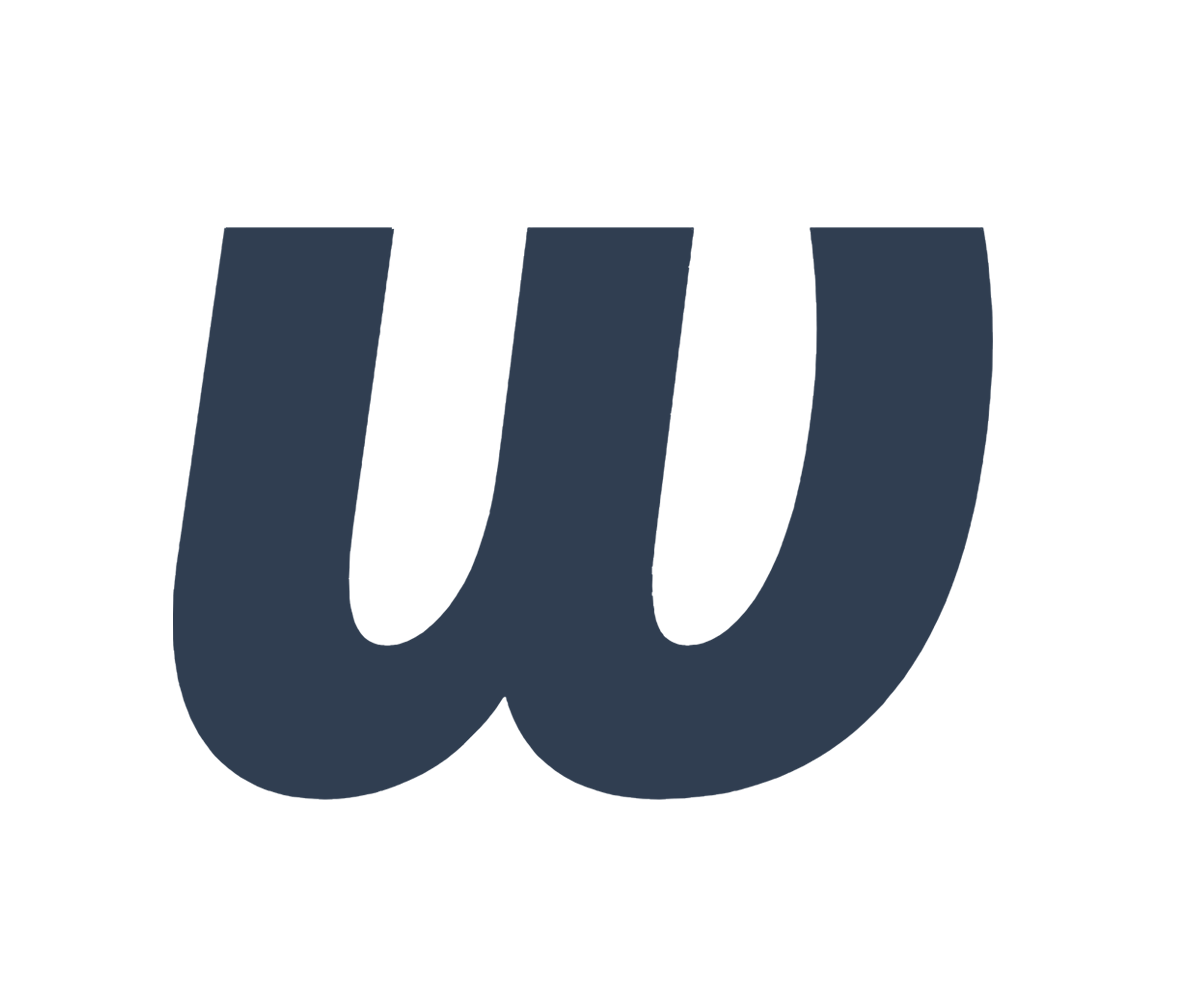
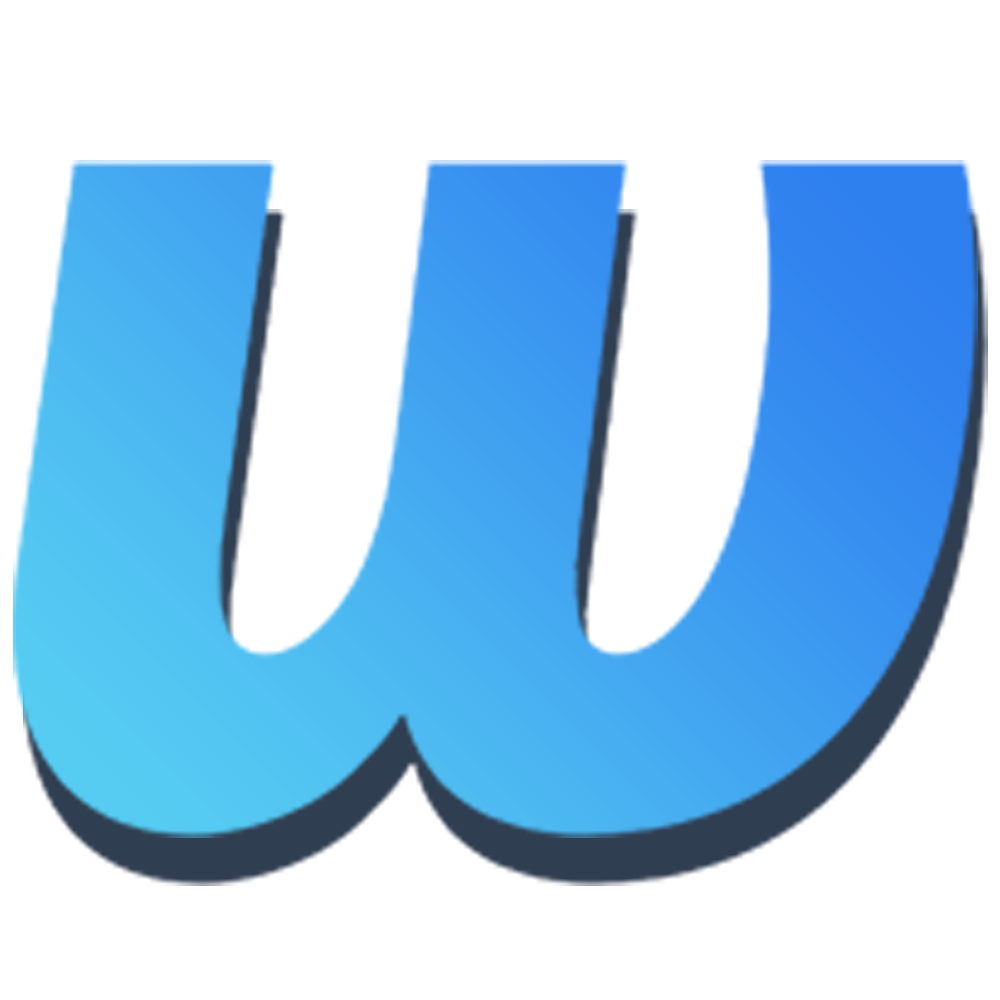
d

diff --git a/index.html b/index.html
@@ -19,6 +19,10 @@
 <!--[if lt IE 9]><script src="js/respond.js"></script><![endif]-->
 <script src="https://kit.fontawesome.com/47cfa1d6ce.js" crossorigin="anonymous"></script>
 <style>
+	html, body {
+    max-width: 100%;
+    overflow-x: hidden;
+}
 	#wp , #wp2{
 		position: relative;
 		right: 4px;
@@ -32,9 +36,11 @@
 		left: 4px;
 		top: 5px;
 	}
+
 </style>
 </head>
 <body class="hidden-bar-wrapper">
+	
 <div class="page-wrapper">
     <!-- Preloader -->
 	<div class="preloader">
@@ -65,7 +71,7 @@
         <div class="header-upper" style="display: none;">
         	<div class="auto-container clearfix">
 				<div class="pull-left logo-box">
-					<div class="logo"><a href="html/merix/merix/index.html"><img src="html/merix/merix/images/logo-2.png" alt="" title=""></a></div>
+					<div class="logo"><a href="html/merix/merix/index.html"><img src="Screen-Shot-2020-12-19-at-12.01.59-PM copy 2.png" alt="" title=""></a></div>
 				</div>
 				<div class="nav-outer clearfix">
 					<!--Mobile Navigation Toggler-->
@@ -277,7 +283,7 @@
             <div class="menu-backdrop"></div>
             <div class="close-btn"><span class="icon flaticon-multiply"></span></div>
             <nav class="menu-box">
-                <div class="nav-logo"><a href="html/merix/merix/index.html"><img src="html/merix/merix/images/logo-3.png" alt="" title=""></a></div>
+                <div class="nav-logo"><a href="html/merix/merix/index.html"><img src="Screen-Shot-2020-12-19-at-12.01.59-PM copy 2.png" alt="" title=""></a></div>
                 <div class="menu-outer"><!--Here Menu Will Come Automatically Via Javascript / Same Menu as in Header--></div>
             </nav>
         </div><!-- End Mobile Menu -->
@@ -298,7 +304,7 @@
 					<div class="sidebar-info-contents">
 						<div class="content-inner">
 							<div class="logo">
-								<a href="html/merix/merix/index.html"><img src="html/merix/merix/images/logo.png" alt="" /></a>
+								<a href="html/merix/merix/index.html"><img src="Screen-Shot-2020-12-19-at-12.01.59-PM copy 2.png" alt="" /></a>
 							</div>
 							<div class="content-box">
 								<h2>About Us</h2>
@@ -1224,32 +1230,32 @@
             <div class="contact-form">
 
                 <!--Contact Form-->
-                <form method="post" action="sendemail.php" id="contact-form">
+                <form autocomplete="off" method="post" target="hidden_iframe" name="google-sheet">
                     <div class="row clearfix">
 
                         <div class="col-lg-6 col-md-6 col-sm-12 form-group">
                             <span class="icon flaticon-user-2"></span>
-                            <input type="text" name="username" placeholder="Your Name" required>
+                            <input type="text" placeholder="Your Name" name="name" required>
                         </div>
 
                         <div class="col-lg-6 col-md-6 col-sm-12 form-group">
                             <span class="icon flaticon-phone-call"></span>
-                            <input type="text" name="phone" placeholder="Your Phone" required>
+                            <input type="text" placeholder="Your Phone" name="phone" required>
                         </div>
 
                         <div class="col-lg-6 col-md-6 col-sm-12 form-group">
                             <span class="icon flaticon-big-envelope"></span>
-                            <input type="email" name="email" placeholder="Email" required>
+                            <input type="email" placeholder="Email" name="email" required>
                         </div>
 
                         <div class="col-lg-6 col-md-6 col-sm-12 form-group">
                             <span class="icon flaticon-notepad"></span>
-                            <input type="text" name="subject" placeholder="Subject" required>
+                            <input type="text" placeholder="Subject" name="sub" required>
                         </div>
 
                         <div class="col-lg-12 col-md-12 col-sm-12 form-group">
                             <span class="icon flaticon-message"></span>
-                            <textarea name="message" placeholder="Message"></textarea>
+                            <textarea placeholder="Message" name="mess"></textarea>
                         </div>
 
                         <div class="col-lg-12 col-md-12 col-sm-12 text-center form-group">
@@ -1263,7 +1269,9 @@
             </div>
 
         </div>
-    </div>
+	</div>
+	
+
 </section>
 	<!-- Footer Style Two -->
     <footer class="footer-style-two" style="background-image: url(html/merix/merix/images/background/map-pattern-2.png)">
@@ -1278,27 +1286,28 @@
                             <div class="footer-column col-lg-6 col-md-6 col-sm-12">
                                 <div class="footer-widget logo-widget">
 									<div class="logo">
-										<a href="html/merix/merix/index.html"><img src="html/merix/merix/images/logo-3.png" alt="" /></a>
+										<a href="html/merix/merix/index.html"><img src="Screen-Shot-2020-12-19-at-12.01.59-PM copy 2.png" alt="" /></a>
 									</div>
 									<div class="text">Lorem ipsum dolor amet consectetur adip- ielit sed eiusm tempor incididunt ut labore dolore magna aliqua enim ad minim veniam quis....</div>
 								</div>
 							</div>
 							<!-- Footer Column -->
                             <div class="footer-column col-lg-6 col-md-6 col-sm-12">
-                                <div class="footer-widget links-widget">
+                                <div class="footer-widget links-widget" style="position: relative; left: 275px;">
 									<h4>Quicky links</h4>
 									<div class="row clearfix">
 										<div class="column col-lg-6 col-md-6 col-sm-12">
 											<ul class="list-link-two">
-												<li><a href="#">How It Works</a></li>
-												<li><a href="#">Guarantee</a></li>
-												<li><a href="#">Report Bug</a></li>
-												<li><a href="#">Pricing</a></li>
+												<li><a href="#home">Home</a></li>
+												<li><a href="#about">About</a></li>
+												<li><a href="#services">Services</a></li>
+												<li><a href="#testimonial">Testimonials</a></li>
+												<li><a href="#contact">Contact us</a></li>
 											</ul>
 										</div>
 										<div class="column col-lg-6 col-md-6 col-sm-12">
-											<ul class="list-link-two">
-												<li><a href="#">About Singleton</a></li>
+											<ul class="list-link-two" style="display: none;">
+												<li><a href="#about">About</a></li>
 												<li><a href="#">Team</a></li>
 												<li><a href="#">Testimonials</a></li>
 												<li><a href="#">Blog</a></li>
@@ -1310,7 +1319,7 @@
 						</div>
 					</div>
 					<!-- Column -->
-                    <div class="big-column col-lg-6 col-md-12 col-sm-12">
+                    <div class="big-column col-lg-6 col-md-12 col-sm-12" style = "position: relative; left: 450px;">
 						<div class="row clearfix">
 							<!--Footer Column-->
                             <div class="footer-column col-lg-6 col-md-6 col-sm-12">
@@ -1318,10 +1327,9 @@
 									<h4>Contact us</h4>
 									<div class="widget-content">
 										<ul>
-											<li>Mon – Sat 10:00pm - 8:00pm</li>
-											<li><a href="tel:+0987-654-321">0987 654 321</a> <a href="tel:+0123-456-789">0123 456 789</a></li>
-											<li><a href="mailto:Merix@gmail.com">Merix@gmail.com</a></li>
-											<li>16122 Collins Street West, Melbourne, VIC Srsars</li>
+											
+											<li><a href="mailto:Webistle@gmail.com">Webistle@gmail.com</a></li>
+											
 										</ul>
 									</div>
 								</div>
@@ -1329,13 +1337,13 @@
 							<!-- Footer Column -->
                             <div class="footer-column col-lg-5 col-md-6 col-sm-12">
                                 <div class="footer-widget app-widget">
-									<h4>Download the App</h4>
-									<div class="app-btns clearfix">
+									<h4 style="display: none;">Download the App</h4>
+									<div class="app-btns clearfix" style="display: none;">
 										<a href="#"><img src="html/merix/merix/images/icons/app-btn.png" alt="" /></a>&ensp;
 										<a href="#"><img src="html/merix/merix/images/icons/google-btn.png" alt="" /></a>
 									</div>
 									<!-- Social Box -->
-									<ul class="social-box">
+									<ul class="social-box" style="position:relative; right: 295px; top: 100px;">
 										<li class="follow">Follow Us Now</li>
 										<li><a href="#" class="fa fa-facebook-f"></a></li>
 										<li><a href="#" class="fa fa-linkedin"></a></li>
@@ -1355,10 +1363,10 @@
 				<div class="row clearfix">
 					<!-- Copyright Column -->
 					<div class="copyright-column col-lg-6 col-md-12 col-sm-12">
-						<div class="copyright">Copyright &copy; 2020. All Rights Reserved By <a href="https://themeforest.net/user/themerange">ThemeRange.</a></div>
+						<div class="copyright">Copyright &copy; 2020. All Rights Reserved By <a href="https://webistle.ml">Webistle.</a></div>
 					</div>
 					<!-- Nav Column -->
-					<div class="nav-column col-lg-6 col-md-12 col-sm-12">
+					<div class="nav-column col-lg-6 col-md-12 col-sm-12" style="display: none;">
 						<ul>
 							<li><a href="index.html">Privacy</a></li>
 							<li><a href="html/merix/merix/faq.html">FAQs</a></li>
@@ -1406,7 +1414,7 @@
 </div>
 <!-- End Header Search -->
 <!-- Scroll To Top -->
-<div class="back-to-top scroll-to-target show-back-to-top" data-target="html">TOP</div>
+<div class="back-to-top scroll-to-target show-back-to-top" data-target="html" style="display: none;">TOP</div>
 <script src="html/merix/merix/js/jquery.js"></script>
 <script src="html/merix/merix/js/popper.min.js"></script>
 <script src="html/merix/merix/js/bootstrap.min.js"></script>
@@ -1423,4 +1431,18 @@
 <script src="html/merix/merix/js/jquery-ui.js"></script>
 <script src="html/merix/merix/js/script.js"></script>
 <script src="html/merix/merix/js/color-settings.js"></script>
+<script>
+	const scriptURL = 'https://script.google.com/macros/s/AKfycbz_YuEfBX7QSPe5QzqOIxkp5yTTieiqmNL76P-wNE4CGUM6vw8c9pT2/exec'
+	const form = document.forms['google-sheet']
+
+	form.addEventListener('submit' , e=> {
+		e.preventDefault()
+		fetch(scriptURL, { method: 'POST' , body: new FormData(form)})
+		.then(response => alert('Thanks, for Contact us..! We will contact you soonn.. '))
+		.catch(error => console.error('Error'))
+	})
+	<script src="https://maxcdn.bootstrapcdn.com/bootstrap/4.1.1/js/bootstrap.min.js"></script>
+        <script src="https://cdnjs.cloudflare.com/ajax/libs/jquery/3.2.1/jquery.min.js"></script>
+</script>
+</body>
 </html>
